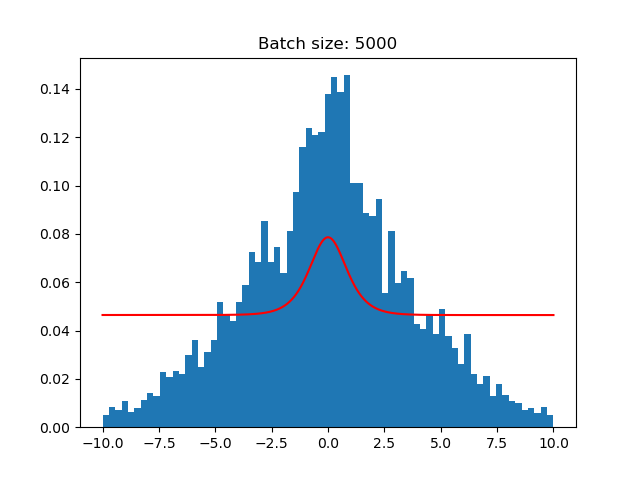
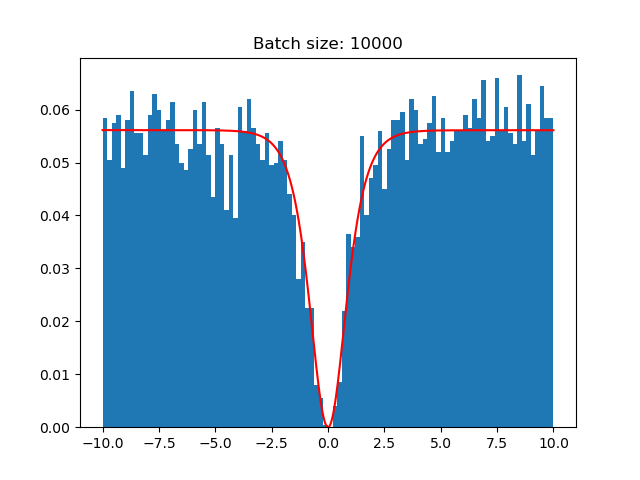
feat: update hyperparameters and improve initialization in training and sampler

diff --git a/src/qvarnet/train.py b/src/qvarnet/train.py
@@ -71,6 +71,7 @@ def energy_fn_trapezoidal(params, batch, model_apply):
     integral = trapezoid(energy_integrand.squeeze(), batch.squeeze())
     return integral / norm
 
+
 def loss_and_grads(params, batch, model_apply):
     local_energy_per_point = local_energy_batch(params, batch, model_apply)
     E = energy_fn(params, batch, model_apply)
@@ -116,12 +117,15 @@ def train(
     sampler = jax.vmap(mh_chain, in_axes=(0, None, None, None, None, 0), out_axes=0)
     n_chains = shape[0]
     rng_keys = random.split(random.PRNGKey(872643), n_chains)
-    init_position = jax.random.normal(random.PRNGKey(0), (n_chains,)) * (PBC / 8) # TODO: This is susceptible to change
+    init_position = jax.random.normal(random.PRNGKey(0), (n_chains,)) * (
+        PBC / 8
+    )  # TODO: This is susceptible to change
+    init_position = jnp.zeros((n_chains,))  # start all chains at 0
     wf_hist = []
     best_energy = jnp.inf
     best_params = None
     x = jnp.linspace(-PBC / 2, PBC / 2, 1000).reshape(-1, 1)
-    debugSampling = True # TODO: change this to argument
+    debugSampling = True  # TODO: change this to argument
 
     os.makedirs("results", exist_ok=True)
     if debugSampling:
@@ -146,6 +150,7 @@ def train(
         if nan_callback(energy):
             print("NaN detected in energy, stopping training.")
             break
+        init_position = batch
 
         if step % 1000 == 0 and debugSampling:
             plt.clf()
@@ -167,4 +172,3 @@ def train(
             print("==============================")
 
     return state.params, energy_history, wf_hist, best_params, best_energy
-

diff --git a/src/qvarnet/models.py b/src/qvarnet/models.py
@@ -1,6 +1,7 @@
 from flax import linen as nn
 from jax import numpy as jnp
 
+
 # Define a simple MLP using Flax Linen
 class MLP(nn.Module):
     architecture: list
@@ -11,7 +12,7 @@ class MLP(nn.Module):
     def __call__(self, x):
         for i in range(len(self.architecture) - 1):
             x = nn.Dense(features=self.architecture[i + 1])(x)
-            if i < len(self.architecture) - 2:
-                x = self.hidden_activation(x)
-        x = jnp.exp(-0.5 * (x**2))
+            # if i < len(self.architecture) - 2:
+            x = self.hidden_activation(x)
+
         return x

diff --git a/src/qvarnet/sampler.py b/src/qvarnet/sampler.py
@@ -9,7 +9,7 @@ def mh_kernel(rng_key, prob_fn, prob_params, position, prob, PBC=None):
     key1, key2 = random.split(rng_key)
     # proposal = position + random.normal(key1, shape=position.shape) * 0.5
     proposal = position + random.uniform(
-        key1, shape=position.shape, minval=-0.5, maxval=0.5
+        key1, shape=position.shape, minval=-1, maxval=1
     )
     # ensure PBC
     proposal = jax.lax.cond(
